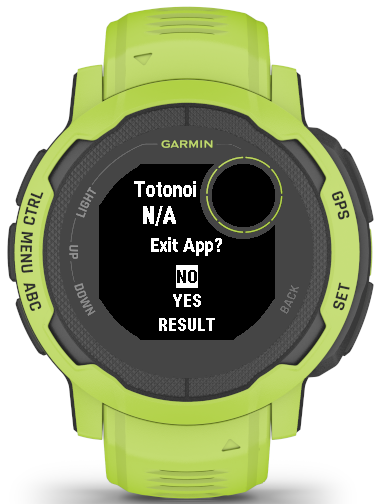
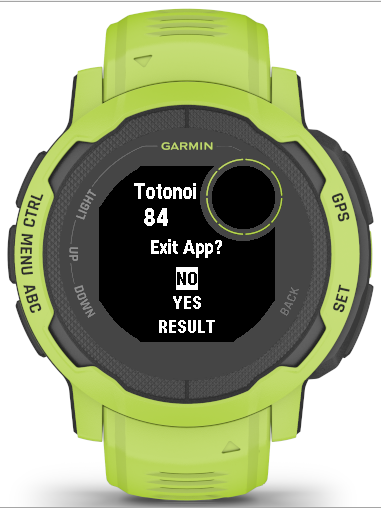
リザルト画面の説明を追加

diff --git a/sauna-timer/index.html b/sauna-timer/index.html
@@ -128,6 +128,7 @@
               <a href="#buttons">ボタン</a>
               <a href="#top-screen">起動画面</a>
               <a href="#run-screen">タイマー動作中</a>
+              <a href="#results">リザルト</a>
               <a href="#timer-menu" translate="no">Timer Menu</a>
               <a href="#aufguss-mode" translate="no">Aufguss</a>
               <a href="#main-menu" translate="no">Main Menu</a>
@@ -210,6 +211,36 @@
                 <li><span class="legend-mark legend-timer"></span><strong>緑枠</strong> 現在のタイマー残り時間</li>
                 <li><span class="legend-mark legend-clock"></span><strong>黄色枠</strong> 現在時刻</li>
               </ul>
+            </section>
+
+            <section class="guide-section" id="results">
+              <h3>リザルト画面</h3>
+
+              <h4>セットリザルト</h4>
+              <div class="guide-layout">
+                <figure class="screen-figure">
+                  <img src="../assets/images/Result_set.png" alt="セットのTotonoiScoreと各フェーズの最大・最小心拍数を表示したセットリザルト画面" width="380" height="504" loading="lazy">
+                  <figcaption>セットリザルト（表示値はサンプル）</figcaption>
+                </figure>
+                <div>
+                  <p>セットが終わり、次のセットを開始する際に、そのセットの<span translate="no">TotonoiScore</span>と各フェーズの最大・最小心拍数が表示されます。</p>
+                  <p>10秒経過するか、何かキーを押すと元の画面に戻ります。</p>
+                </div>
+              </div>
+
+              <h4>全体リザルト</h4>
+              <div class="guide-images guide-images-two">
+                <figure class="screen-figure">
+                  <img src="../assets/images/Result_all.png" alt="トータルTotonoiScoreを表示した全体リザルト画面" width="380" height="504" loading="lazy">
+                  <figcaption>全体リザルト（トータル）</figcaption>
+                </figure>
+                <figure class="screen-figure">
+                  <img src="../assets/images/Result.png" alt="各セットのTotonoiScoreとフェーズごとの最大・最小心拍数を表示した全体リザルト画面" width="380" height="504" loading="lazy">
+                  <figcaption>全体リザルト（セット詳細）</figcaption>
+                </figure>
+              </div>
+              <p>アプリを終了する際に、今回のリザルトを表示します。トータル<span translate="no">TotonoiScore</span>、各セットの<span translate="no">TotonoiScore</span>、各フェーズの最大・最小心拍数を確認できます。</p>
+              <p><kbd>UP</kbd>／<kbd>DOWN</kbd>キーでページを切り替えられます。自動では終了しないため、確認が終わったら<kbd>ENTER</kbd>または<kbd>BACK</kbd>キーを押してください。</p>
             </section>
 
             <section class="guide-section" id="timer-menu">
@@ -418,6 +449,7 @@
                 </figure>
                 <div>
                   <p><kbd>UP</kbd>／<kbd>DOWN</kbd>で項目を移動し、<kbd>ENTER</kbd>で選択します。<kbd>BACK</kbd>でタイマー画面へ戻ります。</p>
+                  <p>画面上部には、当日のセットの<span translate="no">TotonoiScore</span>の平均が表示されます。<span translate="no">TotonoiScore</span>算出前に終了メニューを開くと、<span translate="no">N/A</span>と表示されます。</p>
                   <dl class="menu-list">
                     <div>
                       <dt translate="no">NO</dt>
@@ -433,6 +465,7 @@
                     </div>
                   </dl>
                   <div class="guide-note">
+                    <p><span translate="no">RESULT</span>画面では<kbd>UP</kbd>／<kbd>DOWN</kbd>でページを切り替え、<kbd>BACK</kbd>で終了確認画面に戻ることができます。</p>
                     <p>サウナを60秒以上実行して休憩に到達したセットが1つもない場合は、<span translate="no">FIT</span>ファイルとアプリ内の履歴を保存しません。</p>
                     <p>フェーズ終了後、またはタイマー停止後の待機状態が10分間続くと、アプリは自動で終了します。自動終了した場合は、アプリ内の履歴を保存しません。</p>
                   </div>
